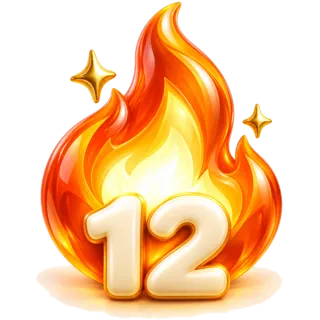
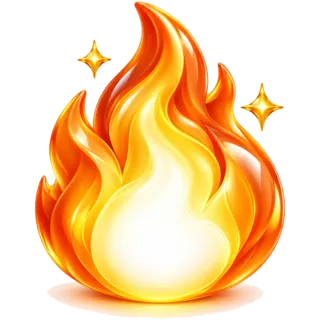
Milestones web: numberless head medals with the live count overlaid; no dialog outline
Claude-Session: https://claude.ai/code/session_01SRLPBcDJ2sMCAezwC9ANbZ

diff --git a/src/frontend/screens/milestones.css.ts b/src/frontend/screens/milestones.css.ts
@@ -9,6 +9,10 @@ export const milestonesCss = `
 .mls .mtop { display: flex; align-items: center; gap: 8px; }
 .mls .mhd { display: grid; grid-template-columns: 1fr 1fr; text-align: center; }
 .mls .mhd img { width: 96px; height: 96px; object-fit: contain; display: block; margin: 0 auto; }
+.mic { position: relative; display: block; width: 96px; margin: 0 auto; }
+.mic i { position: absolute; left: 0; right: 0; bottom: 6px; text-align: center; font-style: normal; font-size: 30px;
+  font-weight: 800; color: #fff; letter-spacing: -.02em;
+  text-shadow: 0 1px 0 #7A2E00, 0 -1px 0 #7A2E00, 1px 0 0 #7A2E00, -1px 0 0 #7A2E00, 0 0 8px rgba(122,46,0,.9), 0 3px 5px rgba(0,0,0,.45); }
 .mls .mhd b { display: block; font-weight: 600; font-size: 16px; }
 .mls .mst { display: grid; grid-template-columns: 1fr 1fr; gap: 10px; }
 .mls .mst > div { display: flex; gap: 8px; align-items: center; background: var(--surface); border-radius: 16px;
@@ -53,6 +57,7 @@ a.mrow .ico { width: 18px; height: 18px; }
 /* Badge Unlocked — the board's 420px card, green washing to the surface. */
 .panel.mu { width: 420px; min-height: 560px; display: flex; flex-direction: column; padding: 24px 28px; position: relative;
   background: linear-gradient(160deg, #1E6B3C 0%, #5BB37E 38%, var(--surface) 62%); }
+.panel.mu:focus, .panel.mu:focus-visible { outline: 0; }
 .mu .mux { position: absolute; top: 16px; right: 16px; }
 .mu .ul { display: flex; flex-direction: column; align-items: center; text-align: center; }
 .mu .ul img { width: 250px; height: 250px; object-fit: contain; }

diff --git a/src/frontend/screens/milestones.ts b/src/frontend/screens/milestones.ts
@@ -153,9 +153,11 @@ export async function milestonesScreen(_frame: Frame): Promise<HTMLElement> {
   top.append(back, el("h1", "d d22", c.title));
 
   const hd = el("div", "mhd");
-  for (const [id, label] of [[FLAME, c.dayStreak], [GEM, c.badgesEarned]] as const) {
+  for (const [id, label, figure] of [[FLAME, c.dayStreak, m.streak], [GEM, c.badgesEarned, earned]] as const) {
     const cell = el("div", "");
-    cell.append(img(id), el("b", "", label));
+    const mic = el("span", "mic");
+    mic.append(img(id), el("i", "", n(figure)));
+    cell.append(mic, el("b", "", label));
     hd.append(cell);
   }
 
